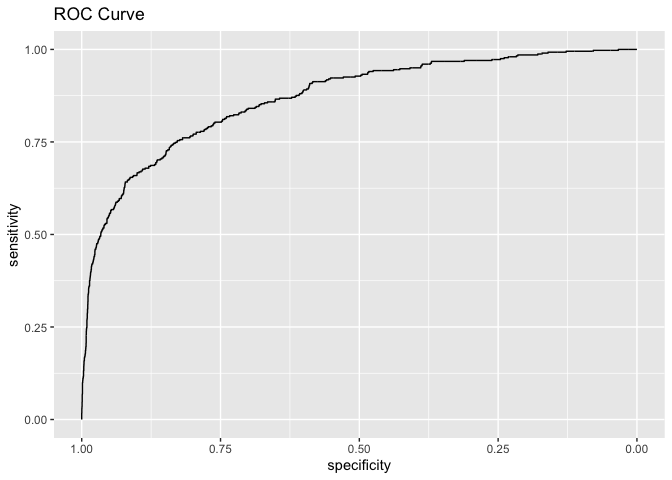
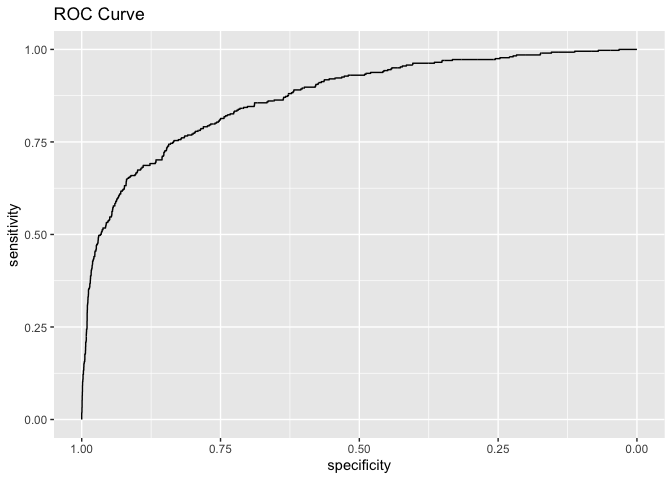
Final Exercise 2

diff --git a/exercise_2/exercise_2.md b/exercise_2/exercise_2.md
@@ -23,30 +23,30 @@ will perform on data it has not seen before.
 
 ## Linear Model
 
-    ## [1] 56688.3
+    ## [1] 57443.03
 
-    ## [1] 59134.64
+    ## [1] 56681
 
 When we evaluate a single linear model train/test split, we get an
 in-sample RMSE of ~55k and an out-of-sample RMSE of ~60k.
 
     ##   result 
-    ## 65244.89
+    ## 62816.14
 
 The average out-of-sample RMSE for 25 random linear model train/test
 splits is ~60k
 
 ## KNN Model
 
-    ## [1] 59917.34
+    ## [1] 61373.36
 
-    ## [1] 117156.4
+    ## [1] 117127.4
 
 In a single KNN regression model train/test split, we get an in-sample
 RMSE of ~60k and an out-of-sample RMSE of 120k.
 
     ##   result 
-    ## 119345.6
+    ## 118259.5
 
 The average out-of-sample RMSE for 25 random KNN regression train/test
 splits is ~114k.
@@ -110,48 +110,44 @@ transformations and interactions between some of those variables.
     ## 
     ## Residuals:
     ##     Min      1Q  Median      3Q     Max 
-    ## -242987  -35046   -4159   27477  457633 
+    ## -241815  -33782   -4236   27922  463096 
     ## 
     ## Coefficients:
     ##                          Estimate Std. Error t value Pr(>|t|)    
-    ## (Intercept)             1.037e+05  2.249e+04   4.611 4.39e-06 ***
-    ## lotSize                 7.609e+03  2.554e+03   2.979 0.002939 ** 
-    ## poly(age, 3)1          -5.549e+05  2.265e+05  -2.450 0.014417 *  
-    ## poly(age, 3)2           2.309e+05  6.724e+04   3.434 0.000612 ***
-    ## poly(age, 3)3          -3.519e+05  6.277e+04  -5.605 2.51e-08 ***
-    ## poly(landValue, 3)1     1.231e+06  7.129e+04  17.270  < 2e-16 ***
-    ## poly(landValue, 3)2    -9.311e+04  6.366e+04  -1.463 0.143798    
-    ## poly(landValue, 3)3     4.719e+04  6.247e+04   0.755 0.450143    
-    ## livingArea              6.738e+01  5.015e+00  13.436  < 2e-16 ***
-    ## bedrooms               -7.278e+03  2.883e+03  -2.525 0.011691 *  
-    ## bathrooms               2.132e+04  3.820e+03   5.580 2.90e-08 ***
-    ## rooms                   2.809e+03  1.068e+03   2.630 0.008628 ** 
-    ## heatinghot water/steam -4.520e+03  4.790e+03  -0.944 0.345552    
-    ## heatingelectric        -6.677e+03  1.462e+04  -0.457 0.647909    
-    ## fuelelectric            2.190e+03  1.442e+04   0.152 0.879335    
-    ## fueloil                -5.453e+03  5.579e+03  -0.977 0.328539    
-    ## sewerpublic/commercial -4.756e+03  4.193e+03  -1.134 0.256816    
-    ## sewernone              -1.312e+04  1.990e+04  -0.659 0.509743    
-    ## waterfrontNo           -1.087e+05  1.808e+04  -6.013 2.34e-09 ***
-    ## newConstructionNo       6.226e+04  8.766e+03   7.103 1.97e-12 ***
-    ## centralAirNo           -1.027e+04  3.842e+03  -2.672 0.007622 ** 
-    ## pctCollege:age          6.393e+00  3.938e+00   1.624 0.104695    
+    ## (Intercept)             1.293e+05  2.037e+04   6.348 2.96e-10 ***
+    ## lotSize                 8.264e+03  2.946e+03   2.805  0.00510 ** 
+    ## poly(age, 3)1          -4.873e+05  2.406e+05  -2.025  0.04304 *  
+    ## poly(age, 3)2           2.594e+05  6.611e+04   3.924 9.14e-05 ***
+    ## poly(age, 3)3          -3.095e+05  6.149e+04  -5.032 5.49e-07 ***
+    ## poly(landValue, 3)1     1.189e+06  6.991e+04  17.010  < 2e-16 ***
+    ## poly(landValue, 3)2    -1.219e+05  6.248e+04  -1.951  0.05127 .  
+    ## poly(landValue, 3)3     9.798e+04  6.134e+04   1.597  0.11043    
+    ## livingArea              6.603e+01  5.080e+00  12.997  < 2e-16 ***
+    ## bedrooms               -6.861e+03  2.873e+03  -2.388  0.01708 *  
+    ## bathrooms               2.055e+04  3.841e+03   5.349 1.03e-07 ***
+    ## rooms                   3.074e+03  1.071e+03   2.869  0.00419 ** 
+    ## heatinghot water/steam -6.240e+03  4.692e+03  -1.330  0.18381    
+    ## heatingelectric         7.169e+02  1.446e+04   0.050  0.96046    
+    ## fuelelectric           -7.559e+03  1.417e+04  -0.533  0.59385    
+    ## fueloil                -2.340e+03  5.618e+03  -0.417  0.67707    
+    ## sewerpublic/commercial -4.693e+03  4.115e+03  -1.140  0.25429    
+    ## sewernone              -1.329e+04  1.865e+04  -0.713  0.47611    
+    ## waterfrontNo           -1.229e+05  1.591e+04  -7.721 2.22e-14 ***
+    ## newConstructionNo       5.295e+04  8.205e+03   6.454 1.51e-10 ***
+    ## centralAirNo           -1.031e+04  3.807e+03  -2.707  0.00687 ** 
+    ## pctCollege:age          5.477e+00  3.957e+00   1.384  0.16658    
     ## ---
     ## Signif. codes:  0 '***' 0.001 '**' 0.01 '*' 0.05 '.' 0.1 ' ' 1
     ## 
-    ## Residual standard error: 58360 on 1360 degrees of freedom
-    ## Multiple R-squared:  0.6649, Adjusted R-squared:  0.6598 
-    ## F-statistic: 128.5 on 21 and 1360 DF,  p-value: < 2.2e-16
+    ## Residual standard error: 57630 on 1360 degrees of freedom
+    ## Multiple R-squared:  0.665,  Adjusted R-squared:  0.6599 
+    ## F-statistic: 128.6 on 21 and 1360 DF,  p-value: < 2.2e-16
 
 ### Appendix 3: KNN Model
 
 The KNN model predicts a particular house price by using the average of
 K-nearest prices. For example, if K = 10, then the model will estimate a
-house price by using the average of its 10 closest data points. In our
-case, the optimal value of K is 25 since we have the lowest RMSE at that
-point.
-
-### Appendix 4: Optimal K value
+house price by using the average of its 10 closest data points.
 
 To determine the optimal value of k in the KNN model, we perform 25
 separate train/test split RMSE analysis using for each k values. We then
@@ -228,12 +224,12 @@ credit history, purpose, and foreign, we get the following results.
     ## purposegoods/repair       purposenewcar      purposeusedcar       foreigngerman 
     ##                0.10                0.85               -0.80               -1.26
 
-If someone has a poor credit history, then the chance of them defaulting
-on a loan goes down by 1.11. Similarly, if someone has a terrible credit
-history, then the odds of them defaulting on a loan goes down by 1.18.
-These results still are the opposite of what I expected. Odds of someone
-defaulting on a loan should rise if they have a poor or terrible credit
-history.
+If someone has a poor credit history, then the odds of them defaulting
+on a loan is multiplied by *e*<sup>−1.11</sup> ≈ 0.33. Similarly, if
+someone has a terrible credit history, then the odds of them defaulting
+on a loan is multiplied by *e*<sup>−1.88</sup> ≈ 0.17. These results
+still are the opposite of what I expected. Odds of someone defaulting on
+a loan should rise if they have a poor or terrible credit history.
 
 ### What is the bigger problem at play?
 
@@ -244,24 +240,28 @@ default with similar sets of loans that had not defaulted. This means
 that they oversampled defaults relative to a random sample of loans in
 the bank’s overall portfolio.
 
-In a simpler way, imagine if we initially had a sample of 100 loans, of
-which 10 loans were defaulted. By oversampling defaults, instead of
-having a low default probability of 1/10, we now have a much higher
-probability. This method results in unreliable estimates since we can no
-longer draw reasonable conclusions about how a particular credit history
-may affect the default probability of an individual. This is why we are
-getting a negative coefficient for poor and terrible credit history
-while predicting loan defaults.
+Oversampling is used to correct what is known as “class imbalance”. In
+this case, it refers to the low number of defaults in the bank
+portfolio. But this method can result in biased estimates if the same
+data point is used multiple times, leading to overfitting. Here, since
+we matched each default with a similar set of non-defaulted loans, we
+ended up with a data distribution that may not appropriately represent
+reality. We also do not have enough information on what parameters the
+bank used to match the loans. Together, this resulted in unreliable
+estimates since we can no longer draw reasonable conclusions about how a
+particular credit history may affect the default probability of an
+individual. This is why we are getting a negative coefficient for poor
+and terrible credit history while predicting loan defaults.
 
 ### How do we go ahead from here?
 
 This dataset is not appropriate for building a predictive model of
 defaults. The case-control sample places a defaulted loan in a bag of
 loans of similar value. But we do not know if the bank considered other
-features such as credit history, age, and savings. This means that we
-cannot draw useful conclusions about someone particular to their credit
-history and classify them into “high” versus “low” probability of
-default.
+features such as credit history, age, and savings. It is also not
+representative of the true data distribution. This means that we cannot
+draw useful conclusions about someone particular to their credit history
+and classify them into “high” versus “low” probability of default.
 
 Instead of following this methodology, the bank can accord weights to
 the default loans in the sample. This will allow for their adequate
@@ -298,7 +298,7 @@ out-of-sample performance of the following:
 #### Baseline Model 1:
 
     ##            acc ppv  rmse_    auc
-    ## Metrics 0.9179 NaN 3.1173 0.6692
+    ## Metrics 0.9233 NaN 3.0913 0.6757
 
 After fitting the baseline model 1 to the training set and assessing
 out-of-sample accuracy, we see this model predicts with about 91%
@@ -309,7 +309,7 @@ this is not the best model.
 #### Baseline Model 2:
 
     ##            acc    ppv  rmse_    auc
-    ## Metrics 0.9348 0.7111 5.6656 0.8599
+    ## Metrics 0.9382 0.7055 4.0053 0.8707
 
 From the out-of-sample performance measures, we see that this model has
 both higher accuracy and a significantly higher AUC. Although the RMSE
@@ -328,8 +328,8 @@ out-of-sample performance. Then, we built a model using forward
 selection. We, again, use out-of-sample performance to assess the
 models.
 
-    ##           acc    ppv  rmse_    auc
-    ## Metrics 0.934 0.6986 0.2349 0.8608
+    ##            acc    ppv  rmse_    auc
+    ## Metrics 0.9382 0.6903 0.2292 0.8688
 
 In this first linear model, we include all variables (except
 `arrival_date`) as well as a few interaction terms
@@ -352,7 +352,7 @@ on: `market_segment`, `customer_type`, `is_repeated_guest`, `adults`,
 `market_segment:is_repeated_guest`
 
     ##            acc ppv  rmse_    auc
-    ## Metrics 0.9179 NaN 0.2699 0.6818
+    ## Metrics 0.9233 NaN 0.2621 0.6848
 
 In the second linear model, accuracy and RMSE is comparable to the first
 linear model, but AUC drops significantly. Between the two linear
